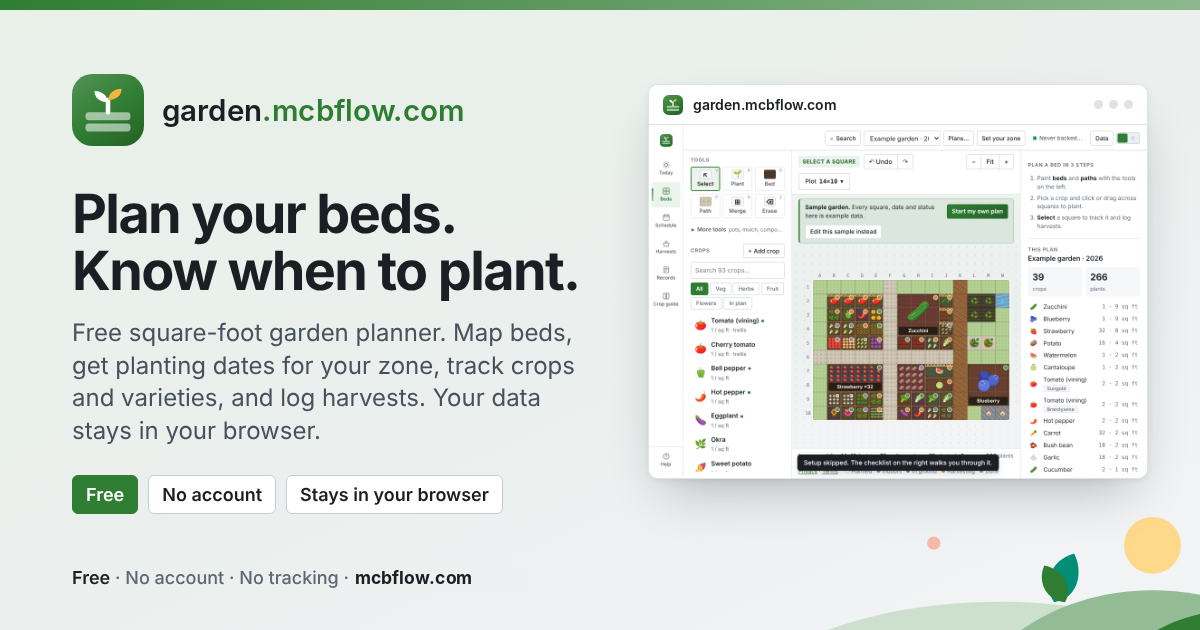
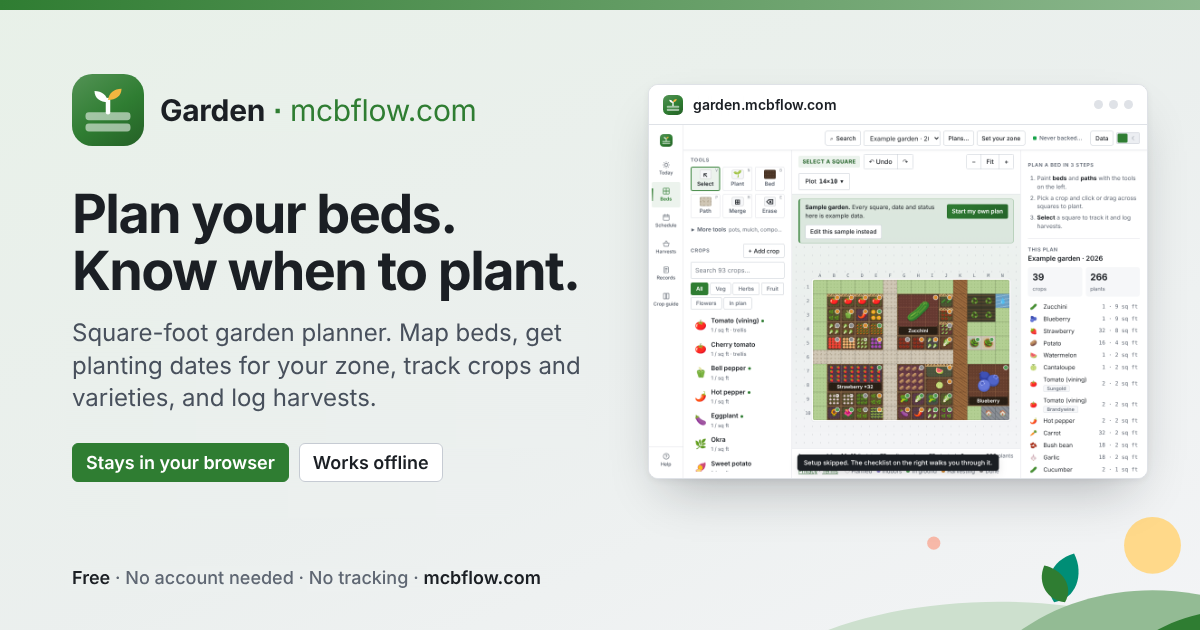
Add files via upload

diff --git a/404.html b/404.html
@@ -26,8 +26,8 @@ a:focus-visible{outline:2px solid var(--accent);outline-offset:2px;border-radius
 header{width:min(720px,100% - 32px);margin:0 auto;padding:20px 0 0}
 .brand{display:inline-flex;align-items:center;gap:10px;color:var(--ink);text-decoration:none;font-weight:650;font-size:16px}
 .brand svg{width:34px;height:34px;flex:none;border-radius:8px}
-.brand i{font-style:normal;font-weight:500;color:var(--accent)}
-.brand .sep{margin:0 .32em 0 .34em;font-weight:400;color:var(--muted)}
+.brand i{font-style:normal;font-weight:400;color:var(--accent)}
+.brand .sep{margin:0 .32em 0 .34em;font-weight:700;color:var(--accent)}
 main{flex:1;width:min(720px,100% - 32px);margin:18px auto 24px}
 .card{position:relative;overflow:hidden;background:var(--surface);border:1px solid var(--border);border-radius:8px;
  box-shadow:0 1px 2px rgba(20,24,31,.06),0 12px 32px -18px rgba(20,24,31,.28);padding:28px 28px 0}
